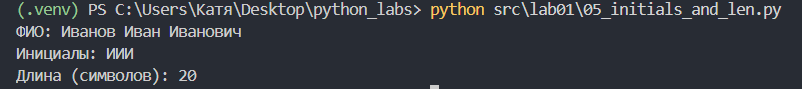
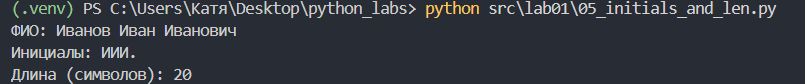
commit

diff --git a/src/lab01/06_count.py b/src/lab01/06_count.py
@@ -2,9 +2,9 @@ kol = int(input())
 
 kol1 = kol2 = 0
 for person in range(kol):
-    opisanie = list(map(str, input().split()))
+    opisanie = list(map(str, input(f"in_{person+1}: ").split()))
     if opisanie[3] == 'True':
         kol1 += 1
     elif opisanie[3] == 'False':
         kol2 += 1
-print(kol1, kol2)
+print(f"out: {kol1} {kol2}")

diff --git a/src/lab01/05_initials_and_len.py b/src/lab01/05_initials_and_len.py
@@ -4,5 +4,5 @@ kol = 0
 for i in fio:
     init += i[0].upper()
     kol += len(i)
-print(f"Инициалы: {init}")
+print(f"Инициалы: {init}.")
 print(f"Длина (символов): {kol + len(init) - 1}")

diff --git a/src/lab01/README.md b/src/lab01/README.md
@@ -70,7 +70,7 @@ kol = 0
 for i in fio:
     init += i[0]
     kol += len(i)
-print(f"Инициалы: {init}")
+print(f"Инициалы: {init}.")
 print(f"Длина (символов): {kol + len(init) - 1}")
 ```
 
@@ -84,12 +84,12 @@ kol = int(input())
 
 kol1 = kol2 = 0
 for person in range(kol):
-    opisanie = list(map(str, input().split()))
+    opisanie = list(map(str, input(f"in_{person+1}: ").split()))
     if opisanie[3] == 'True':
         kol1 += 1
     elif opisanie[3] == 'False':
         kol2 += 1
-print(kol1, kol2)
+print(f"out: {kol1} {kol2}")
 ```
 
 ![](../../images/lab01/06_count.png)<br>
